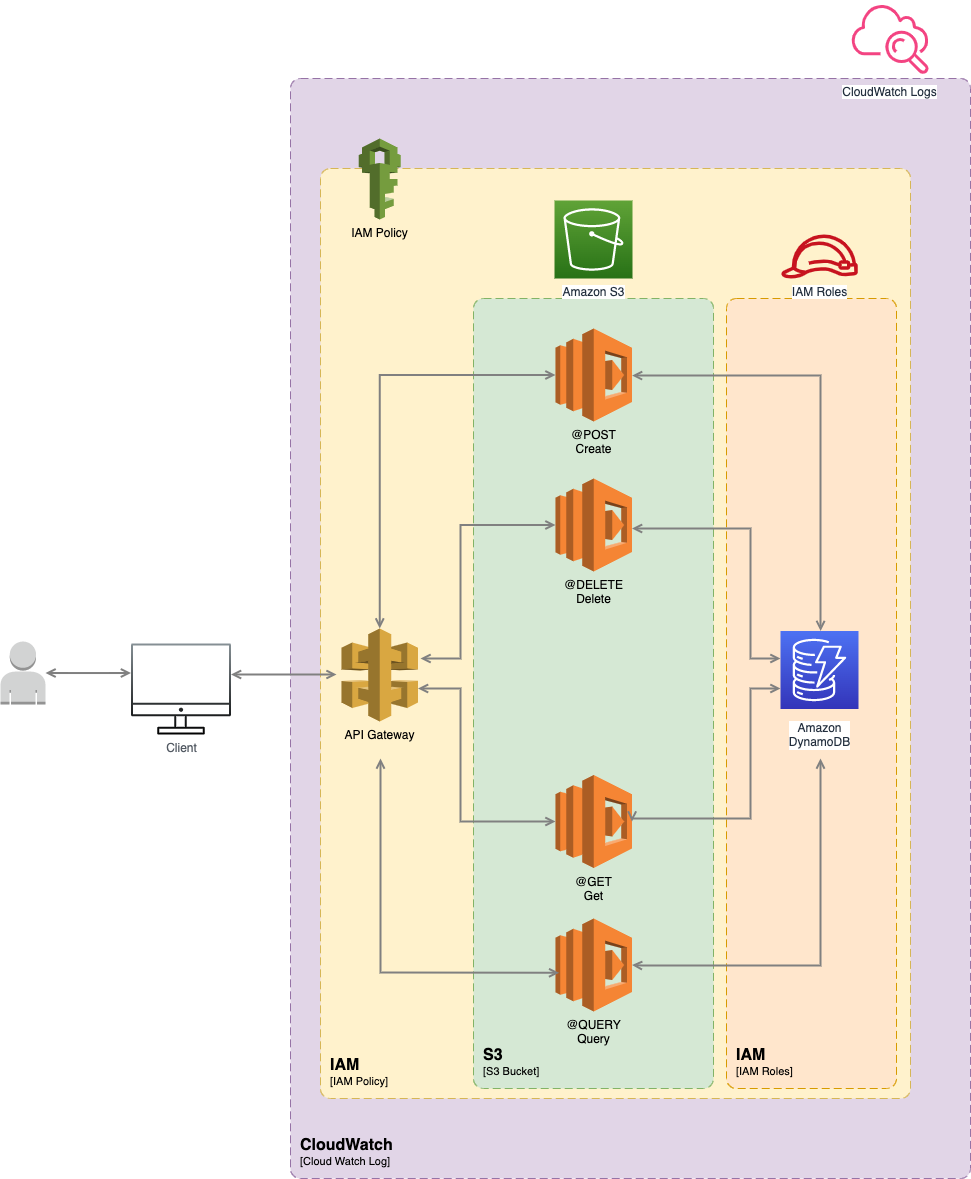
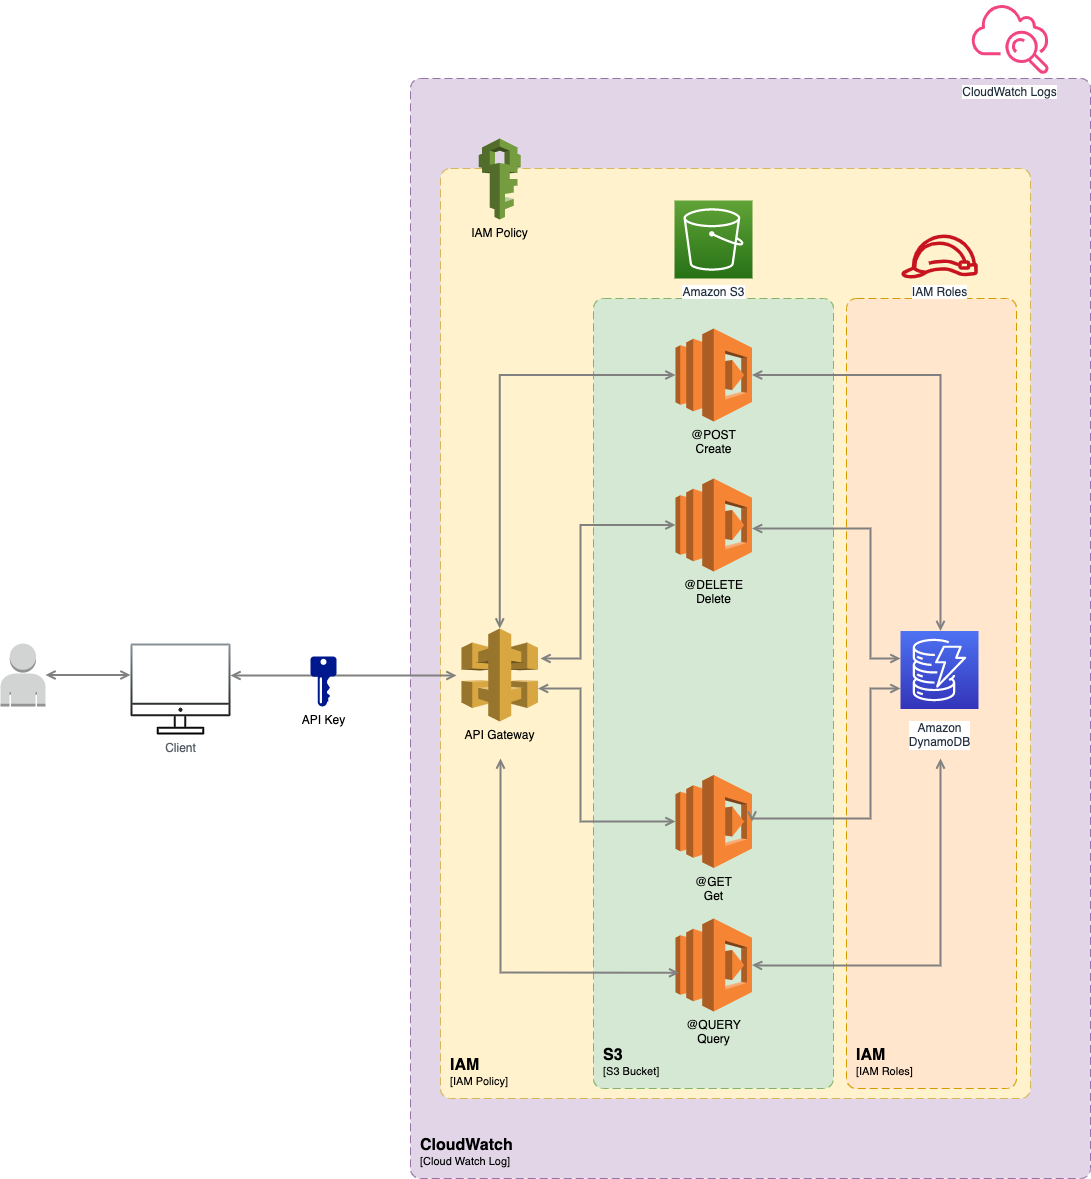
DX-1000 intergrate openapi in api gateway

diff --git a/README.md b/README.md
@@ -117,6 +117,19 @@ CloudWatch supports a wide range of features, including:
 
 CloudWatch can be accessed using a variety of APIs and SDKs, including the AWS Management Console, the AWS CLI, and the AWS SDKs for popular programming languages such as Node.js, Python, Java, and more. CloudWatch provides a powerful and flexible monitoring and observability service that is essential for operating and maintaining modern cloud applications and infrastructure.
 
+### API Keys
+
+
+... are a type of authentication mechanism used in Amazon API Gateway, which is a fully managed service that makes it easy for developers to create, publish, and manage APIs at any scale.
+
+API keys are unique identifiers that are used to authenticate and control access to an API. When enabled, API key authorization requires clients to provide an API key in each request to an API in order to access the protected resources.
+
+AWS API keys can be generated and managed within the Amazon API Gateway console or via the API Gateway REST API. API keys can be assigned usage plans, which specify quotas and rate limits on API usage, and can be revoked or regenerated as needed.
+
+In addition, API keys can be integrated with AWS Identity and Access Management (IAM), which allows for fine-grained access control and management of API keys within an AWS account. IAM policies can be used to grant or restrict access to specific APIs, methods, or resources based on the associated API key.
+
+Overall, AWS API keys provide an important layer of security and access control for APIs built with Amazon API Gateway, and are widely used in modern cloud-based architectures to enforce security and usage policies.
+
 ## Create Application
 
 We will now go over the steps to set up the application you see in the demo above. IaC is the main focus. I will show the code and AWS CLI commands that are necessary but I will not explain them in detail since that is not the purpose of this blog. I’ll focus on the Terraform definitions instead. 
